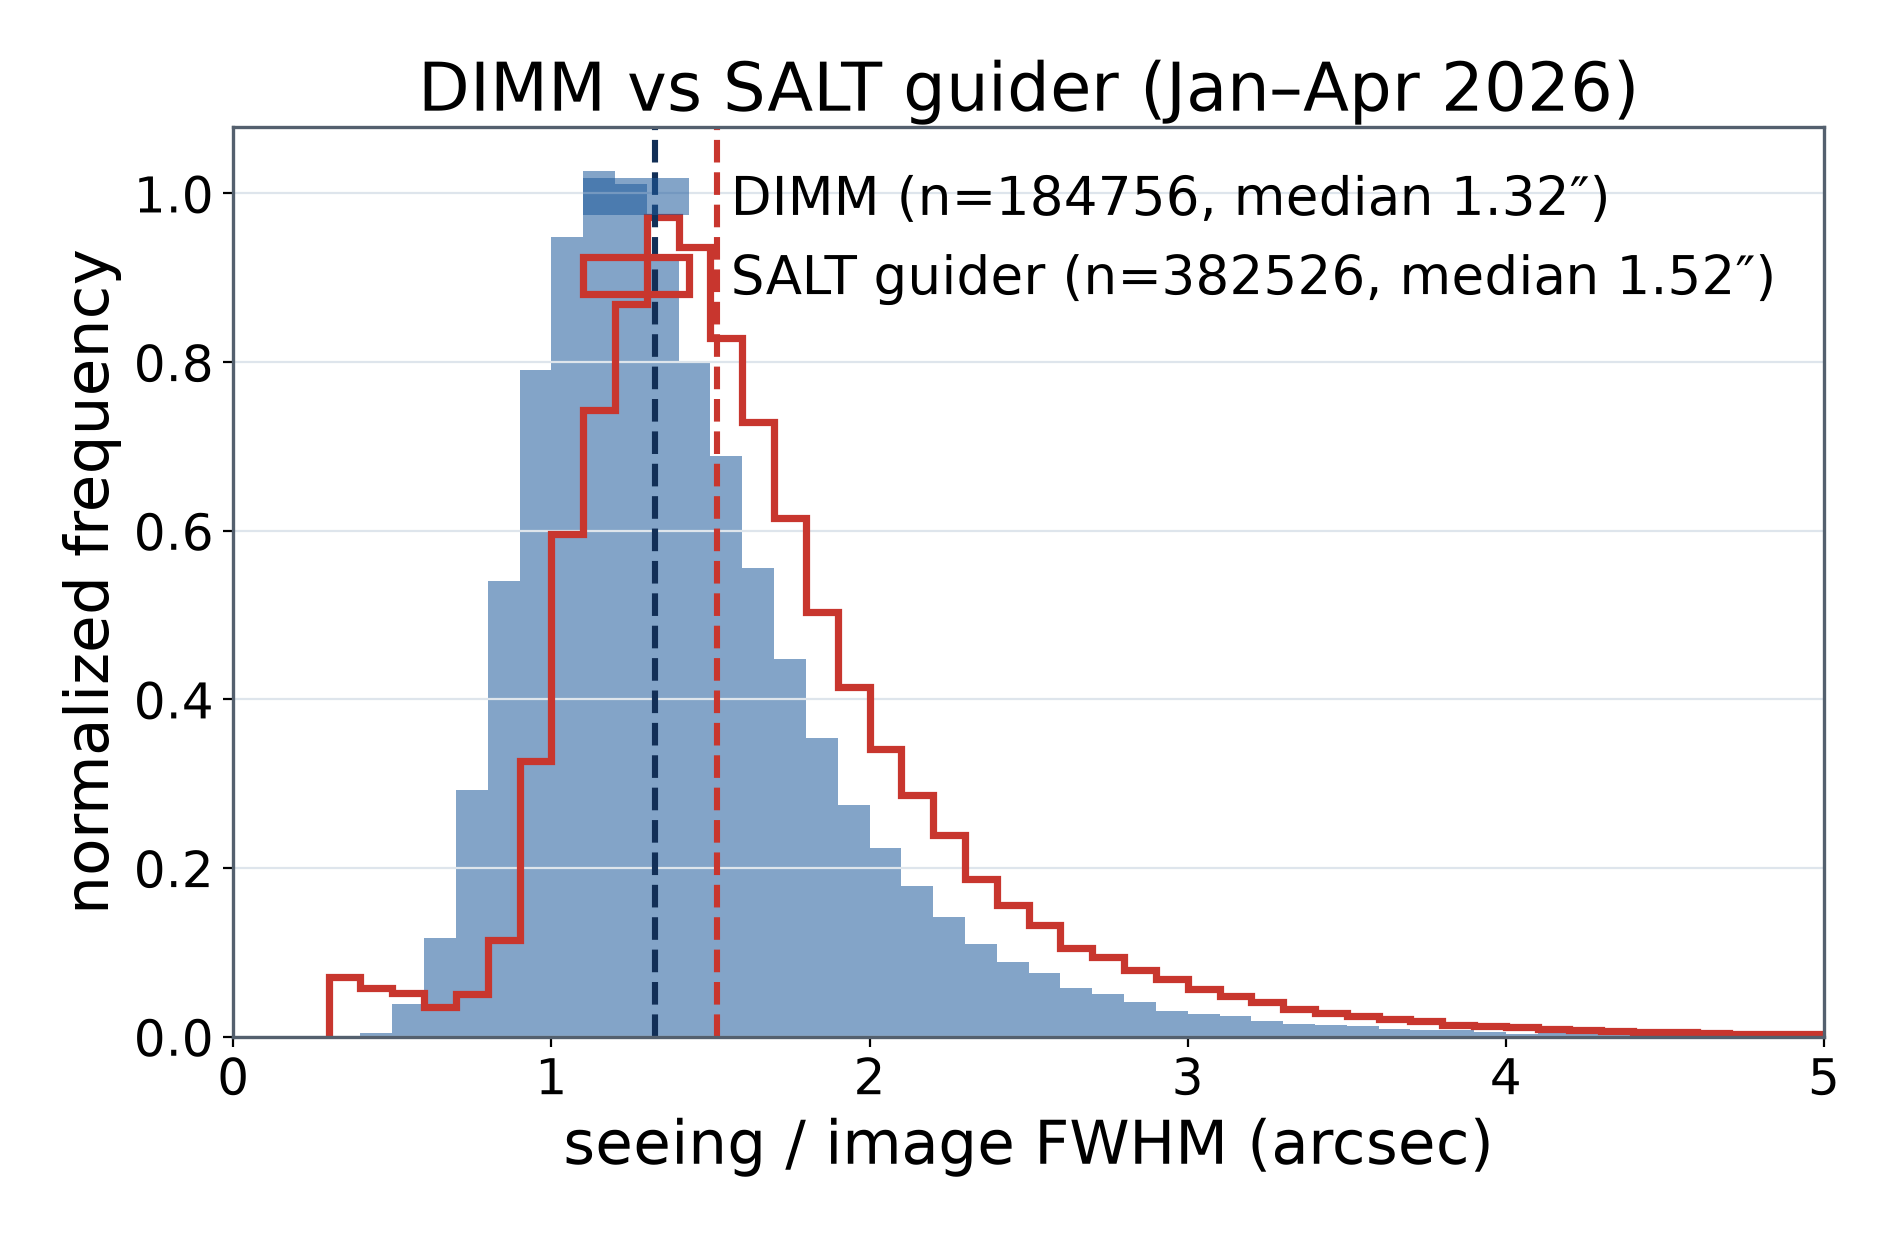
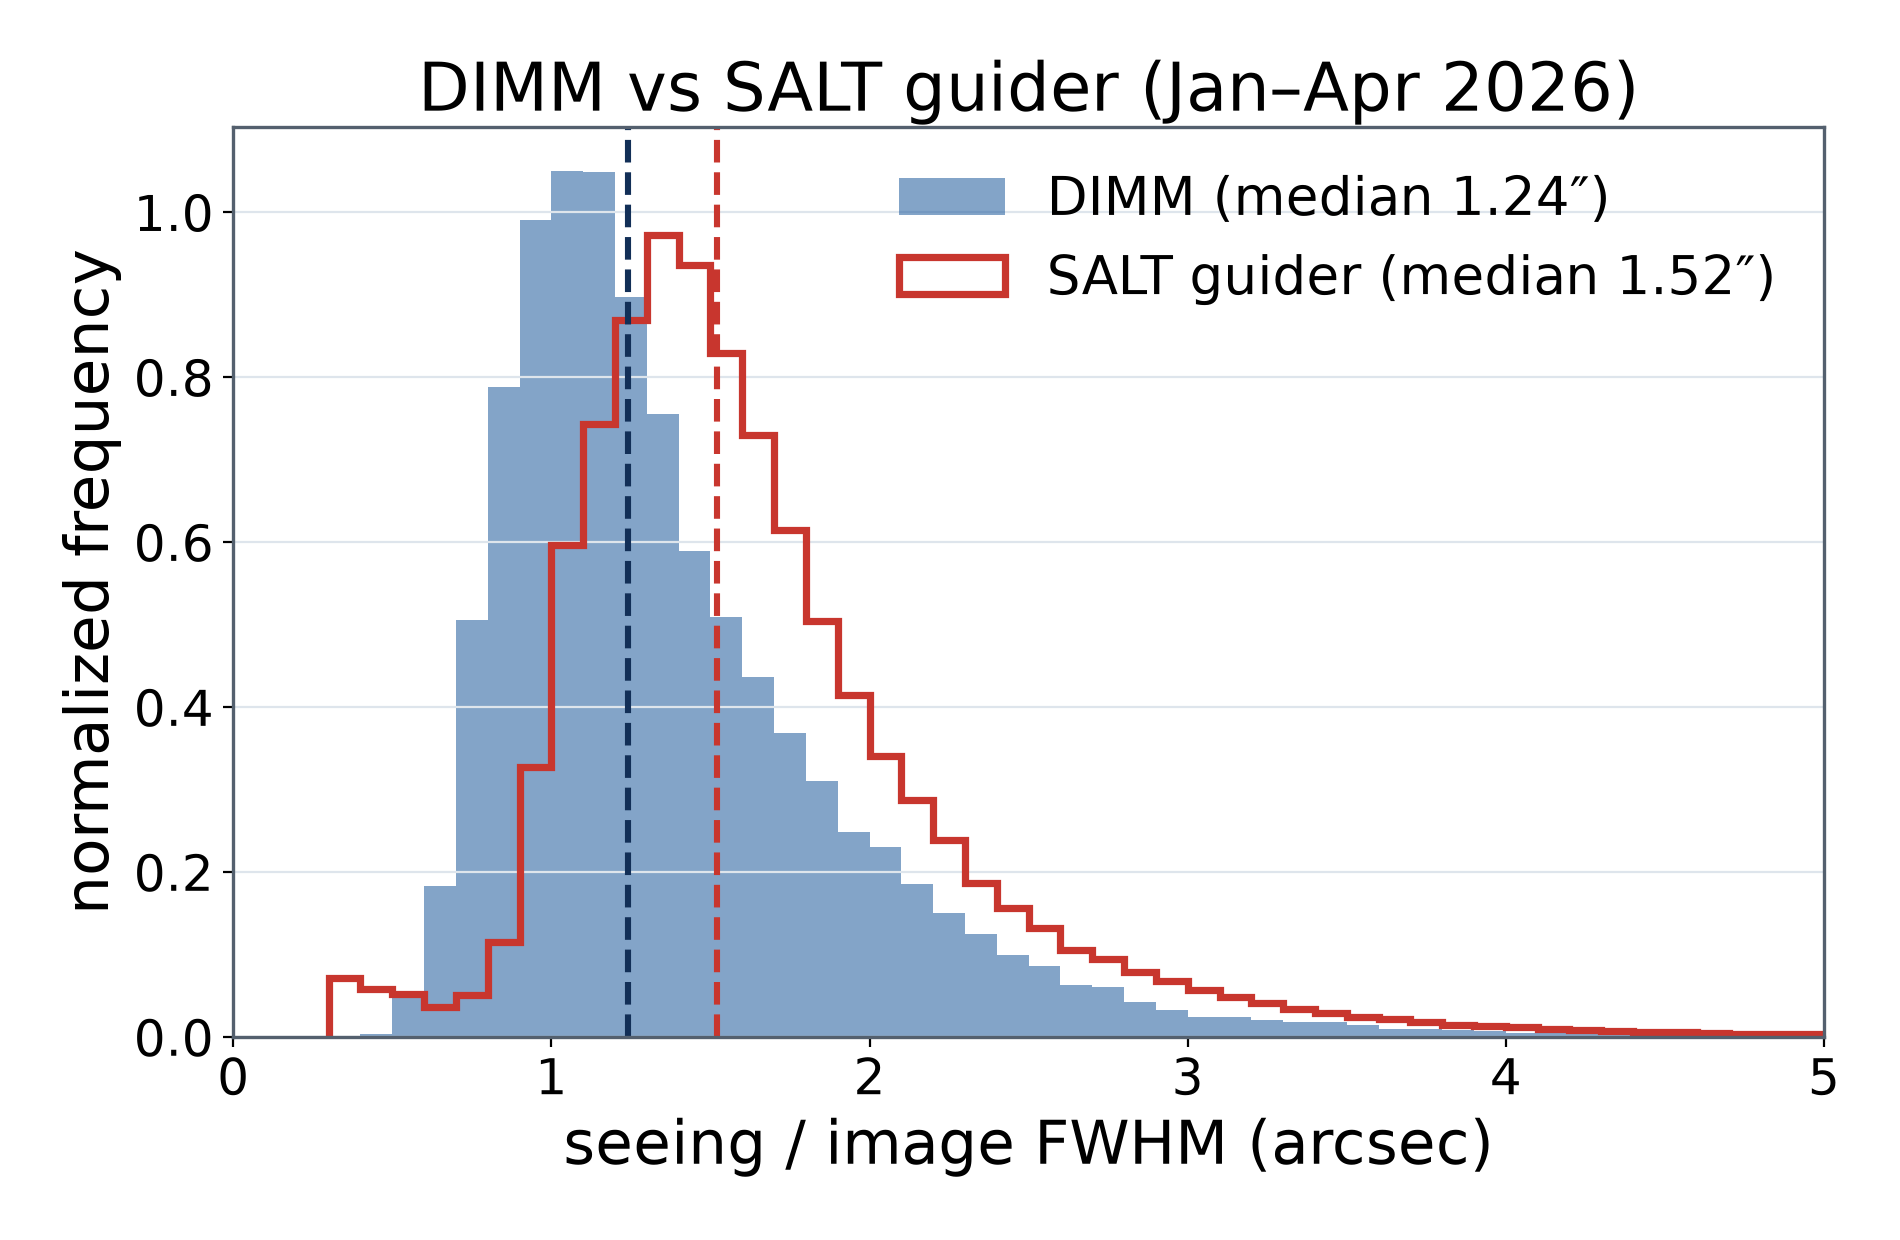
Restrict comparison histogram DIMM to SALT overlap window; move n counts to caption
Same-period (Jan-Apr 2026) comparison: DIMM median 1.24" vs SALT 1.52".
Slim legend now shows medians only; n values moved to the figure caption.

diff --git a/index.html b/index.html
@@ -145,9 +145,10 @@
           </figure>
           <h3 class="subhead">Comparison with the SALT guider</h3>
           <figure>
-            <img src="assets/figures/seeing_compare_hist.png" alt="timDIMM vs SALT histograms">
-            <figcaption>Normalized distributions of timDIMM DIMM seeing and SALT
-            guider image FWHM (both arcsec) over the Jan&ndash;Apr&nbsp;2026 overlap.</figcaption>
+            <img src="assets/figures/seeing_compare_hist.png" alt="DIMM vs SALT guider histograms">
+            <figcaption>Normalized distributions of DIMM seeing
+            (n&nbsp;=&nbsp;33,091) and SALT guider image FWHM (n&nbsp;=&nbsp;382,526),
+            both in arcsec, over the Jan&ndash;Apr&nbsp;2026 overlap.</figcaption>
           </figure>
           <figure>
             <img src="assets/figures/seeing_compare_nights.png" alt="Four representative nights">

diff --git a/scripts/make_plots.py b/scripts/make_plots.py
@@ -64,14 +64,17 @@ def load_salt():
 
 
 def fig_compare_hist(dimm, salt):
+    # restrict DIMM to the SALT overlap window for a same-period comparison
+    lo, hi = salt["time"].min(), salt["time"].max()
+    dimm = dimm[(dimm["time"] >= lo) & (dimm["time"] <= hi)]
     bins = np.arange(SEEING_MIN, SEEING_MAX + 0.1, 0.1)
     med_d = dimm["seeing"].median()
     med_s = salt["fwhm"].median()
     fig, ax = plt.subplots(figsize=(9.5, 6.2))
     ax.hist(dimm["seeing"], bins=bins, density=True, color=BLUE, alpha=0.55,
-            label=f"DIMM (n={len(dimm)}, median {med_d:.2f}″)")
+            label=f"DIMM (median {med_d:.2f}″)")
     ax.hist(salt["fwhm"], bins=bins, density=True, histtype="step", lw=2.6,
-            color=RED, label=f"SALT guider (n={len(salt)}, median {med_s:.2f}″)")
+            color=RED, label=f"SALT guider (median {med_s:.2f}″)")
     ax.axvline(med_d, color=NAVY, ls="--", lw=2.2)
     ax.axvline(med_s, color=RED, ls="--", lw=2.2)
     ax.set_xlabel("seeing / image FWHM (arcsec)")
@@ -83,7 +86,8 @@ def fig_compare_hist(dimm, salt):
     fig.tight_layout()
     out = os.path.join(FIG, "seeing_compare_hist.png")
     fig.savefig(out, dpi=200); plt.close(fig)
-    print("wrote", out, f"| DIMM median={med_d:.2f} SALT median={med_s:.2f}")
+    print("wrote", out,
+          f"| DIMM n={len(dimm)} median={med_d:.2f} | SALT n={len(salt)} median={med_s:.2f}")
 
 
 def _nightly(df):